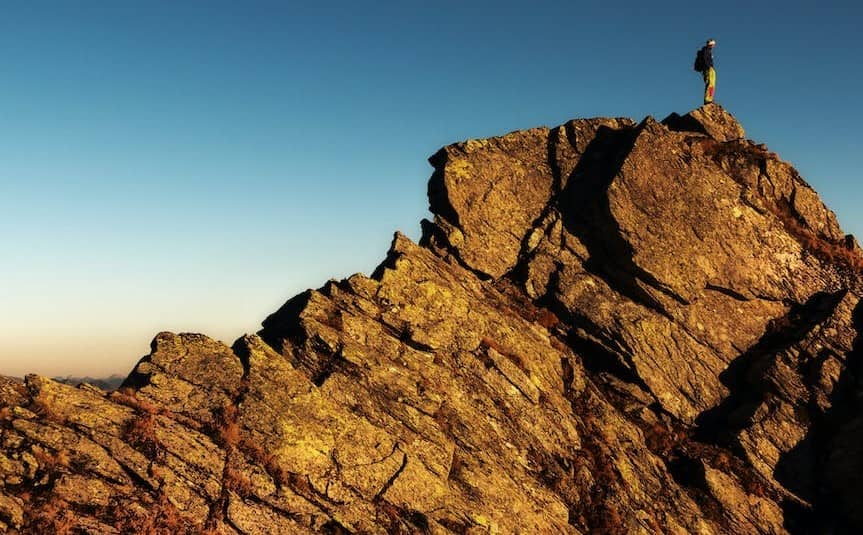
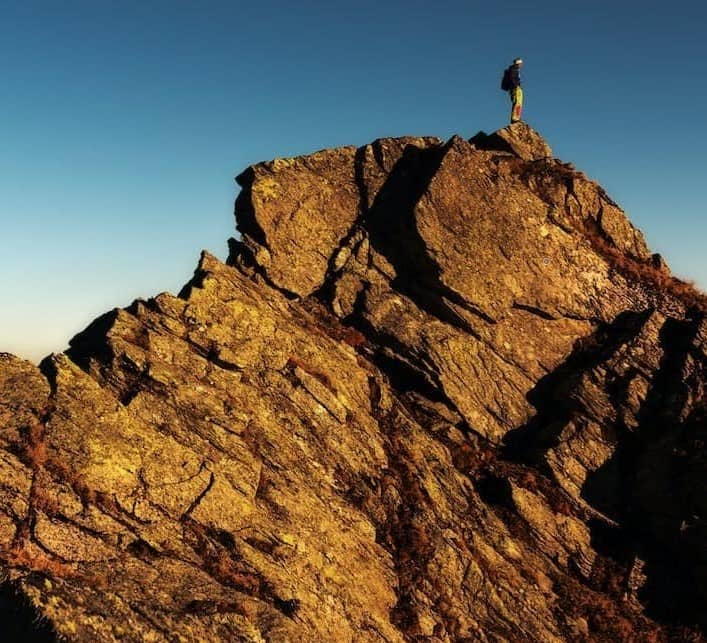
made small layout changes to home page, replaced mountain image

diff --git a/src/assets/css/home.css b/src/assets/css/home.css
@@ -58,7 +58,8 @@
 
 /* SERVICES SECTION  */
 #services {
-    box-shadow: 0px 0px 12px 0px #d6d9db;;
+    box-shadow: 0px 0px 12px 0px #d6d9db;
+    ;
     border-radius: 10px;
     padding: 1em 0;
     max-width: 500px;
@@ -163,10 +164,17 @@
 
     }
 }
+/* larger screens */
+@media only screen and (min-width: 1200px) {
+     #about {
+        gap: 10em;
+     }
+}
 
 /* SERVICE-INFO SECTION */
 #service-info {
-    box-shadow: 0px 0px 12px 0px #d6d9db;;
+    box-shadow: 0px 0px 12px 0px #d6d9db;
+    ;
     border-radius: 10px;
     padding: 2em;
     margin-top: 0;
@@ -185,6 +193,22 @@
         .info-block {
             img {
                 display: none;
+            }
+
+            div {
+                h3 {
+                    padding-bottom: .5em;
+                    width: max-content;
+                    border-bottom: 1px solid var(--bodyTextColor);
+                }
+
+                ul {
+                    display: flex;
+                    flex-direction: column;
+                    gap: 2em;
+                    padding-left: 1em;
+                    margin-top: 2em;
+                }
             }
         }
     }
@@ -221,7 +245,7 @@
 
                 div {
                     border-radius: 10px;
-                    box-shadow: 0px 0px 12px 0px #d6d9db;
+                    /* box-shadow: 0px 0px 12px 0px #d6d9db; */
                     width: 60%;
                     padding: 2em 4em;
                     background-color: var(--bodyTextColorWhite);
@@ -229,9 +253,8 @@
                     right: 20px;
 
                     h3 {
-                        border-bottom: 1px solid;
-                        padding-bottom: 1em;
                         margin-top: 0;
+                        width: 100%;
                     }
                 }
             }
@@ -248,6 +271,22 @@
                     left: 20px;
                     right: 0;
                 }
+            }
+        }
+    }
+}
+
+/* larger screen */
+@media screen and (min-width: 1200px) {
+    #service-info {
+        .container {
+            .info-block {
+                position: relative;
+                right: 100px;
+            }
+
+            .info-block:nth-last-of-type(2) {
+                left: 100px;
             }
         }
     }

diff --git a/src/index.html b/src/index.html
@@ -110,8 +110,11 @@ eleventyNavigation:
         <h3>Sub-heading</h3>
 
         <ul>
-          <li>description text</li>
-          <li>description text</li>
+          <li>Vitae aliquet nec ullamcorper sit amet risus nullam eget. At tempor commodo ullamcorper a lacus.
+           Euismod in pellentesque massa placerat.
+           Vel facilisis volutpat est velit egestas</li>
+
+          <li> Sed viverra tellus in hac habitasse. Elit at imperdiet dui accumsan sit amet nulla facilisi</li>
         </ul>
      </div>
   </div>
@@ -124,8 +127,12 @@ eleventyNavigation:
         <h3>Sub-heading</h3>
 
         <ul>
-          <li>description text</li>
-          <li>description text</li>
+          <li>Feugiat nibh sed pulvinar proin gravida hendrerit lectus a.
+           Magna fringilla urna porttitor rhoncus. Sed viverra tellus in hac habitasse</li>
+
+          <li>Faucibus pulvinar elementum integer enim neque volutpat ac.
+           Integer eget aliquet nibh praesent tristique magna sit amet. 
+          Rhoncus mattis rhoncus urna neque viverra justo</li>
         </ul>
      </div>
   </div>
@@ -138,13 +145,29 @@ eleventyNavigation:
         <h3>Sub-heading</h3>
 
         <ul>
-          <li>description text</li>
-          <li>description text</li>
+          <li>Aliquam faucibus purus in massa tempor nec feugiat. Neque sodales ut etiam sit</li>
+
+          <li>Molestie at elementum eu facilisis. Pretium aenean pharetra magna ac placerat vestibulum lectus mauris ultrices.
+           Convallis a cras semper auctor neque vitae tempus quam pellentesque.</li>
         </ul>
      </div>
   </div>
  </div>
 </section>
+
+
+{# gallery section with image viewer modal #}
+
+
+
+
+
+
+
+
+
+
+{# testimonials section #}
 
 
 

diff --git a/src/assets/css/root.css b/src/assets/css/root.css
@@ -284,6 +284,7 @@ button {
 @media only screen and (min-width: 1023px) {
     #cta {
         padding: 6em 0;
+        height: 320px;
     }
 }
 
@@ -352,6 +353,8 @@ footer {
 @media only screen and (min-width: 1023px) {
     footer {
         padding: 2.5em 0 3.5em 0;
+        display: flex;
+        min-height: 300px;
 
         .footer-content {
             flex-direction: row;
